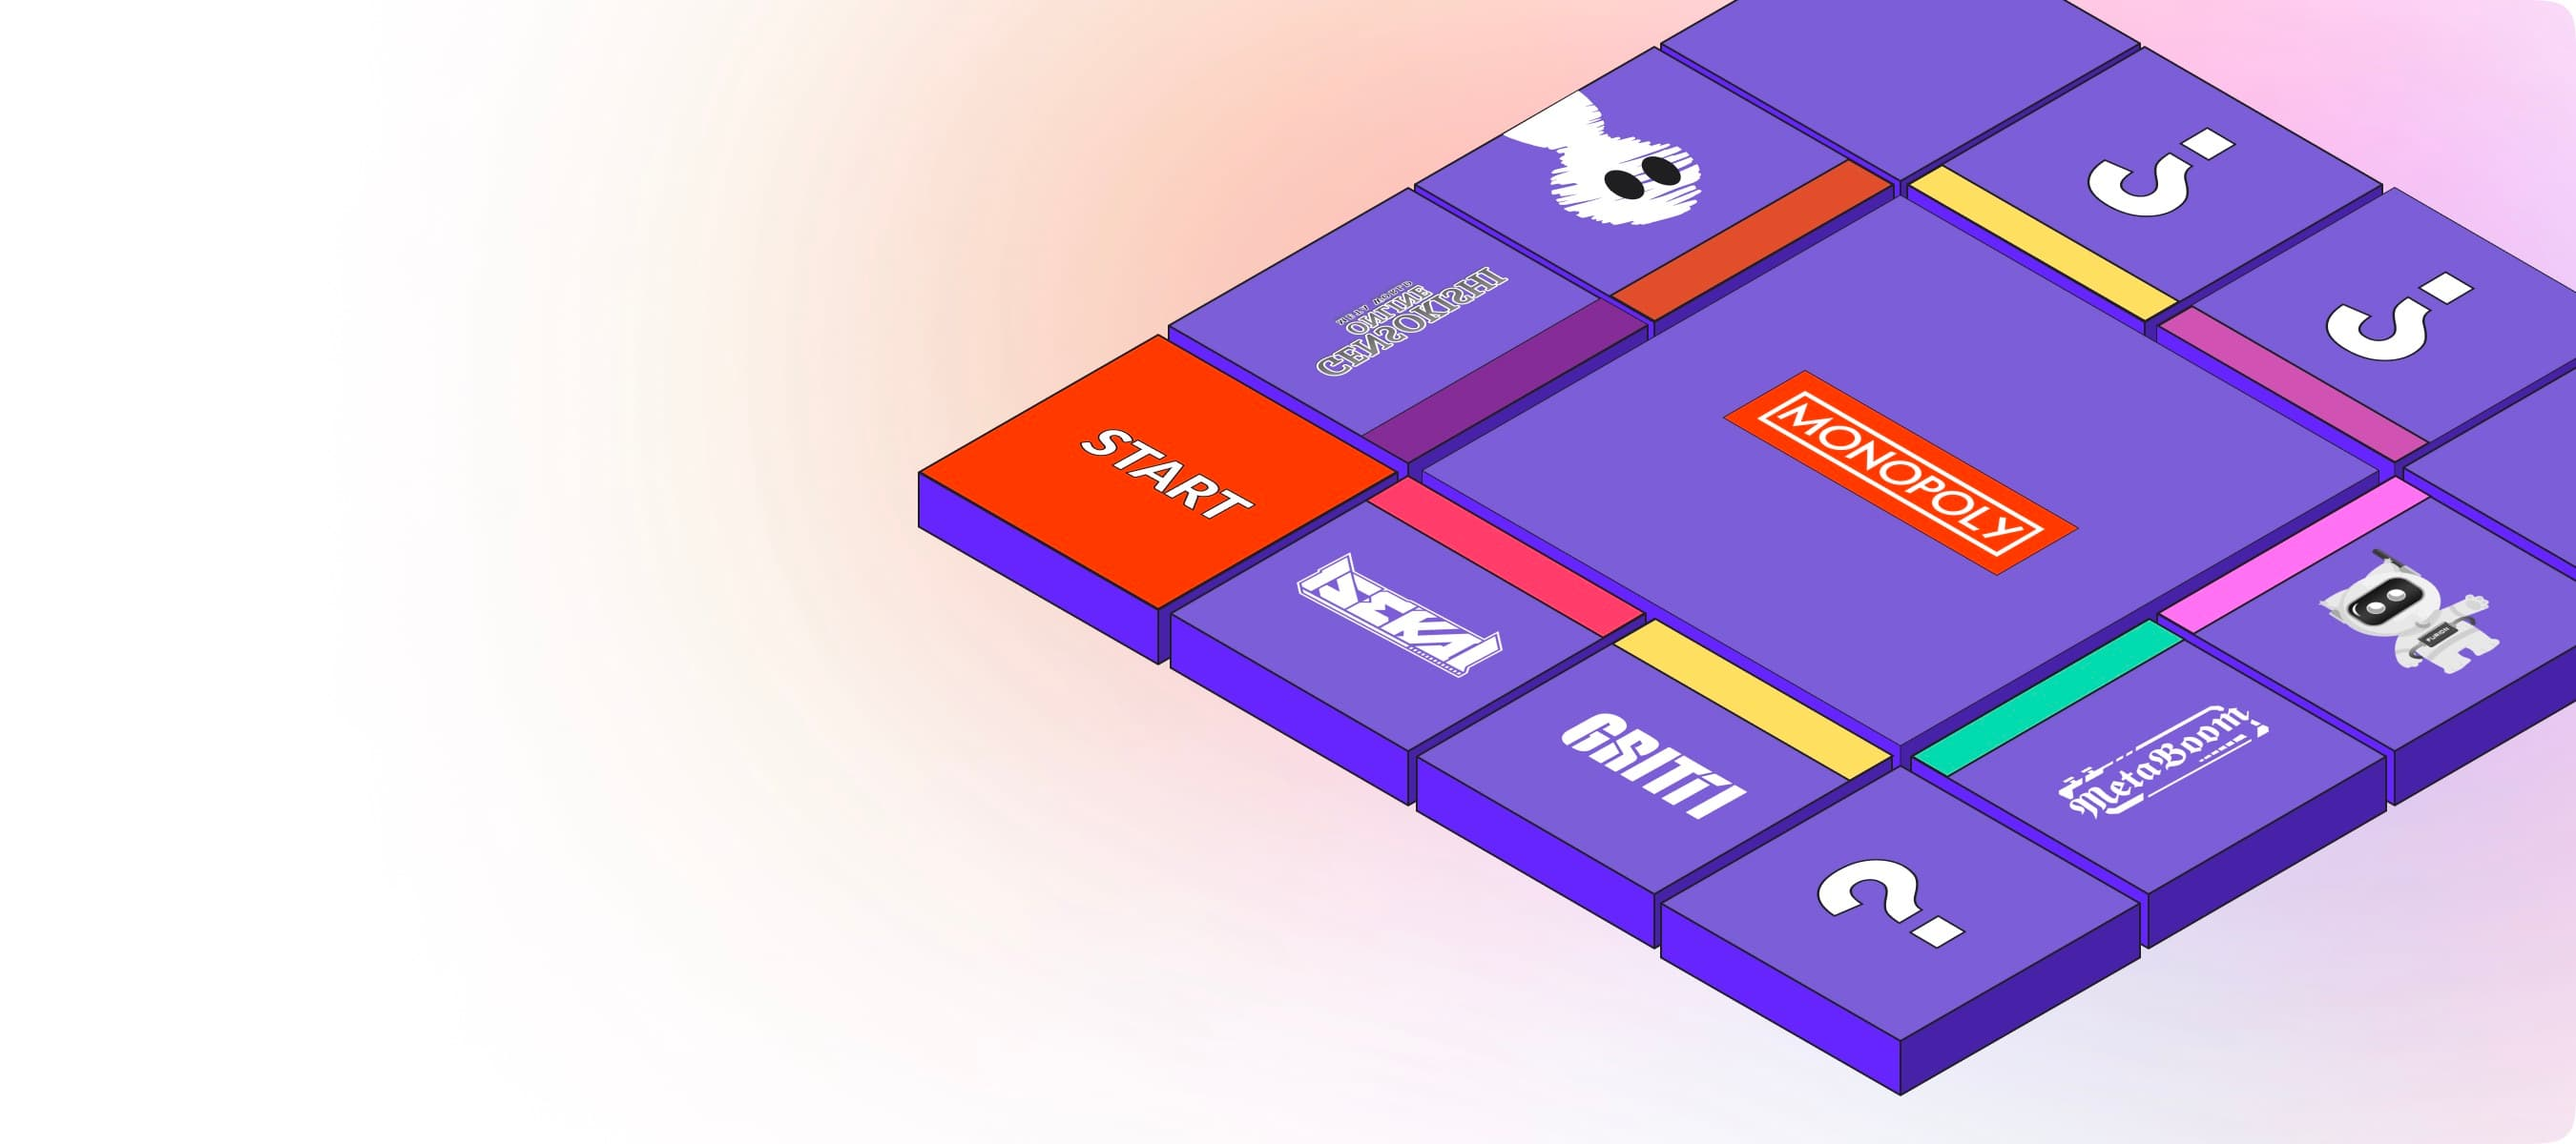
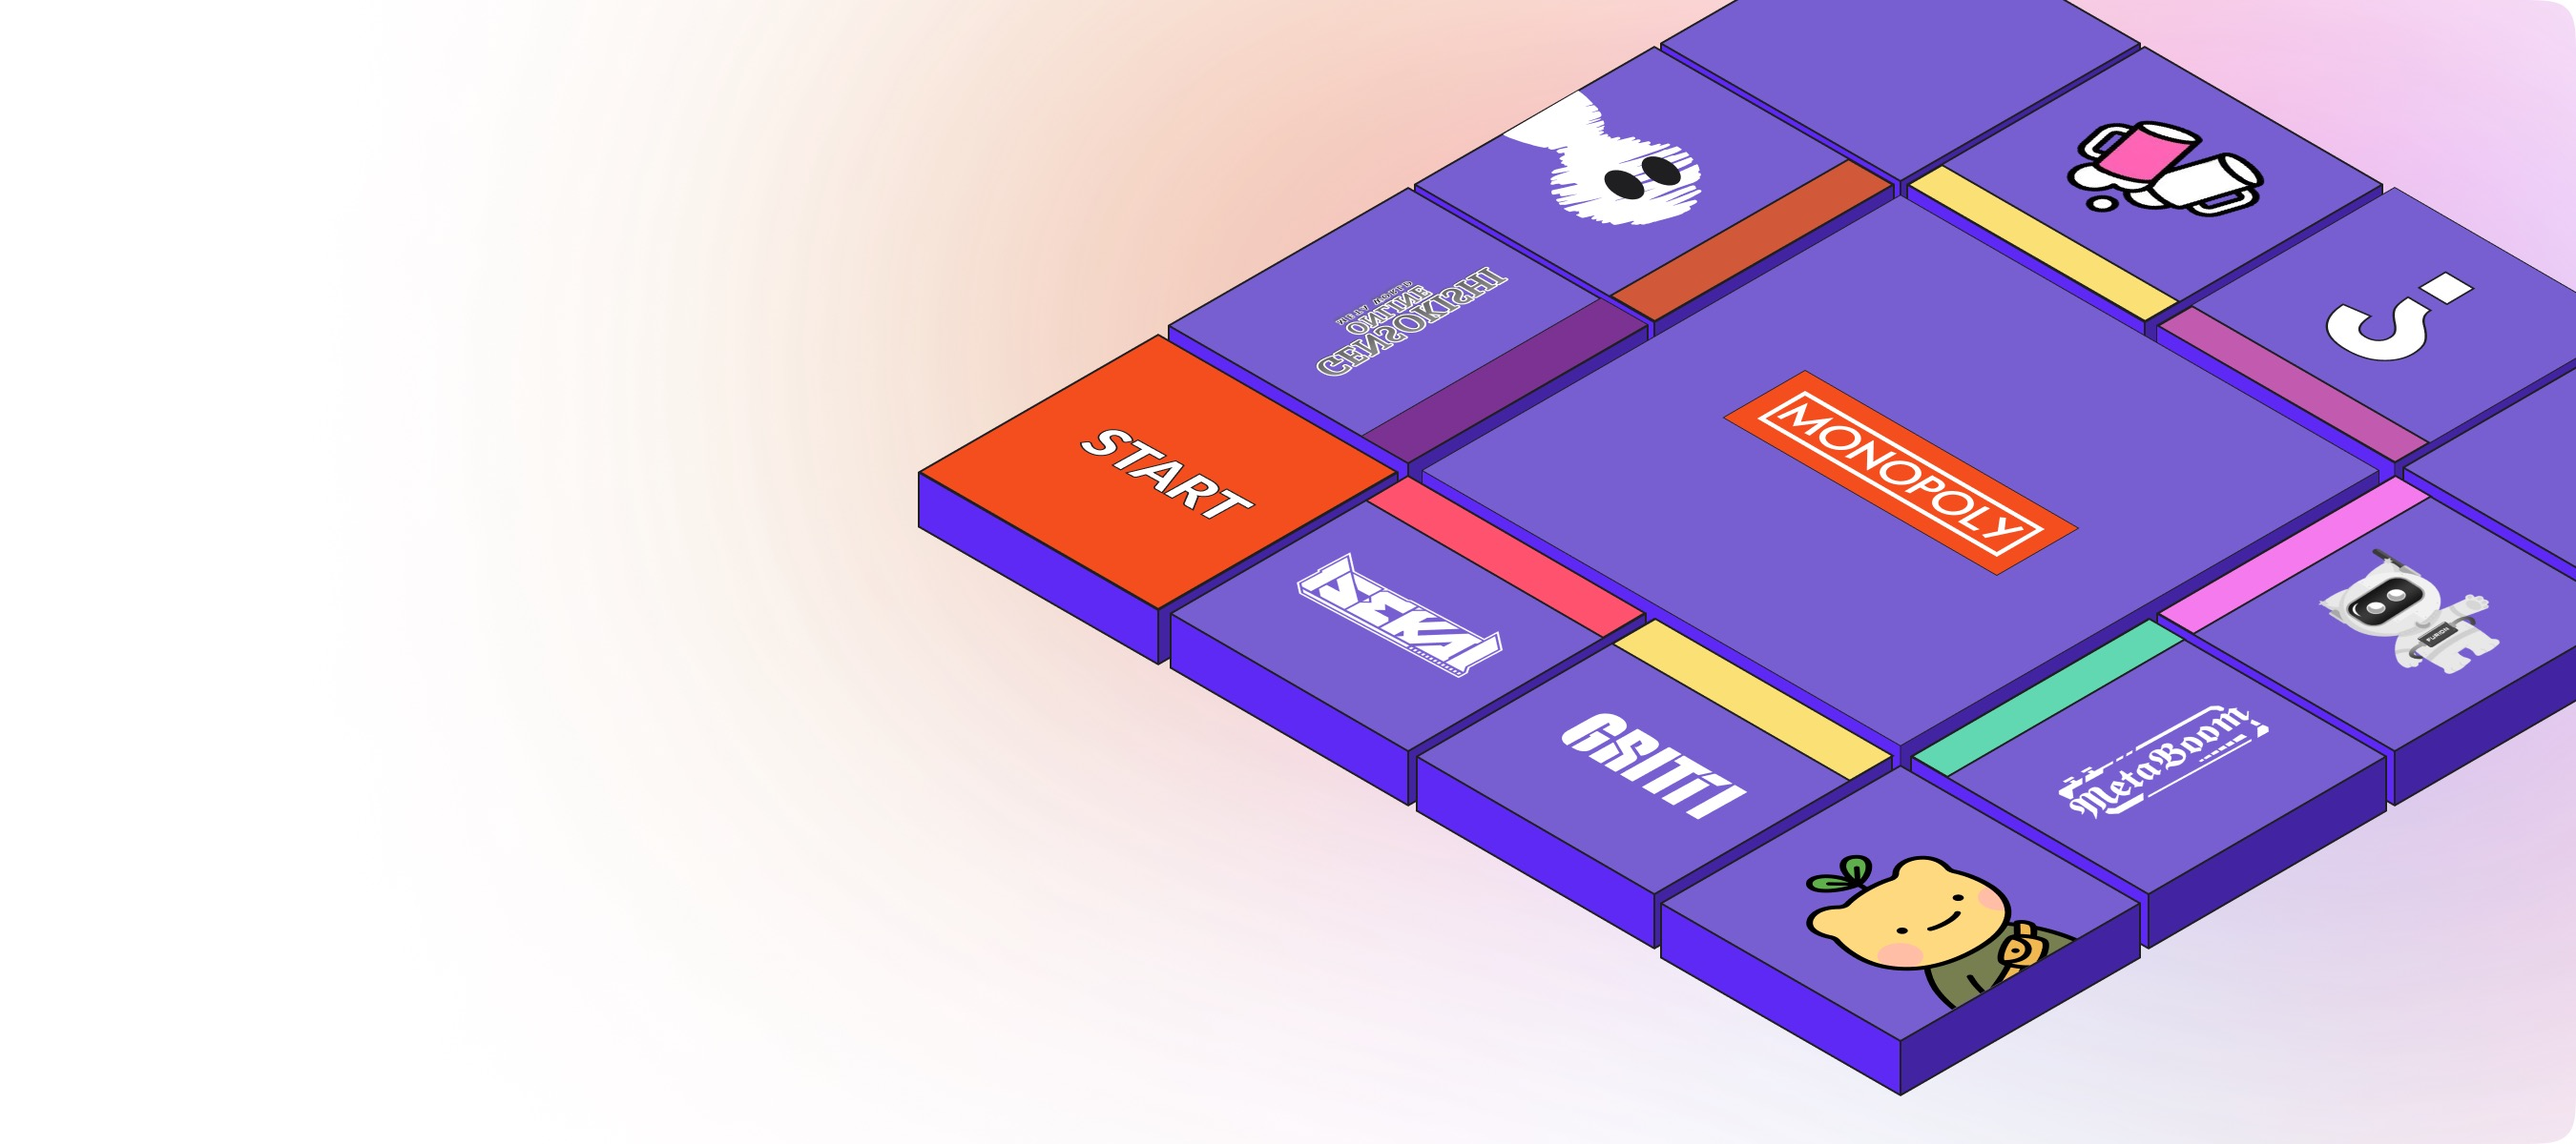
feat: update TestnetV3

diff --git a/src/pages/Testnet/V3Rewards.tsx b/src/pages/Testnet/V3Rewards.tsx
@@ -7,48 +7,69 @@ import IsekaiMetaverse from 'assets/images/Isekai Metaverse.png'
 import Gritti from 'assets/images/Gritti.png'
 import NextType from 'assets/images/NextType.png'
 import StarryNift from 'assets/images/StarryNift.png'
+import genso from 'assets/images/genso.png'
 
 export default function V3Rewards() {
   const theme = useTheme()
   const list = [
     {
+      name: 'Genso',
+      link: 'https://genso.game/en/',
+      img: genso
+    },
+    {
       name: 'MetaBoom',
-      link: '',
+      link: 'https://www.fansi.me/',
       img: MetaBoom
     },
     {
       name: 'WeirdoGhostGang',
-      link: '',
+      link: 'https://www.weirdoghost.com/',
       img: WeirdoGhostGang
     },
     {
       name: 'Furion',
-      link: '',
+      link: 'https://furion.io/',
       img: Furion
     },
     {
       name: 'Isekai Metaverse',
-      link: '',
+      link: 'https://www.isekaiprotocol.com/',
       img: IsekaiMetaverse
     },
     {
       name: 'Gritti',
-      link: '',
+      link: 'https://twitter.com/Grittiapp',
       img: Gritti
     },
     {
       name: 'NextType',
-      link: '',
+      link: 'https://twitter.com/NEXTYPE1',
       img: NextType
     },
     {
       name: 'StarryNift',
-      link: '',
+      link: 'https://starrynift.art/',
       img: StarryNift
     },
     {
       name: 'Aperion',
-      link: '',
+      link: undefined,
+      img: ''
+    },
+    {
+      name: 'CheersUp',
+      link: 'https://twitter.com/CheersUP_NFT',
+      img: ''
+    },
+    {
+      name: 'FPX Metaverse',
+      link: 'https://twitter.com/FPX_META',
+      img: ''
+    },
+    {
+      name: 'WonderPal',
+      link: 'https://twitter.com/WonderPals',
       img: ''
     }
   ]
@@ -66,7 +87,7 @@ export default function V3Rewards() {
         <Box
           key={i}
           sx={{
-            height: 254,
+            height: 214,
             background: `url(${bg})`,
             backgroundSize: '100% 100%',
             padding: '25px 32px',
@@ -75,7 +96,7 @@ export default function V3Rewards() {
             justifyContent: 'space-between'
           }}
         >
-          <Link underline="hover" display={'flex'} alignItems="center">
+          <Link target={'_blank'} underline="hover" href={item.link} display={'flex'} alignItems="center">
             <Typography mr={5} noWrap maxWidth={'84%'} color={theme.palette.info.main}>
               {item.name}
             </Typography>
@@ -93,13 +114,8 @@ export default function V3Rewards() {
               </defs>
             </svg>
           </Link>
-          <Box height={109} display="flex" justifyContent={'center'} alignItems="center">
+          <Box height={180} display="flex" justifyContent={'center'} alignItems="center">
             {item.img && <img style={{ width: '60%' }} src={item.img} />}
-          </Box>
-          <Box height={44}>
-            <Typography mt={10} textAlign={'center'}>
-              No draw
-            </Typography>
           </Box>
         </Box>
       ))}

diff --git a/src/pages/Testnet/TestnetV3.tsx b/src/pages/Testnet/TestnetV3.tsx
@@ -184,7 +184,7 @@ export default function TestnetV3() {
             <RowBetween flexWrap={'wrap'}>
               <Box display={'flex'} flexWrap={'wrap'}>
                 <Typography fontSize={16} fontWeight={600} color={theme.palette.info.main} mr={12}>
-                  Ladder SEPOLIA Testnet-Round 3 Participate in preparation
+                  Ladder SEPOLIA Monopoly Participate in preparation
                 </Typography>
               </Box>
             </RowBetween>
@@ -275,7 +275,7 @@ export default function TestnetV3() {
                     claimable={claimState === ClaimState.UNCLAIMED ? '10' : '0'}
                   /> */}
                 </Box>
-                <Box display={'flex'} flexWrap="wrap" flexDirection="row-reverse" mt={16} alignItems="center">
+                <Box display={'flex'} flexWrap="wrap" mt={16} alignItems="center">
                   <StyledButtonWrapper>
                     {account ? (
                       <Box position={'relative'}>
@@ -337,7 +337,7 @@ export default function TestnetV3() {
         </Collapse>
       </StyledCardWrapper>
 
-      <StyledCardWrapper>
+      <StyledCardWrapper id="reward">
         <Collapse
           defaultOpen
           title={
@@ -784,14 +784,15 @@ function Banner() {
             sx={{
               background: theme => theme.palette.primary.main,
               color: isDarkMode ? '#000' : '#fff',
-              width: '50%',
               mr: 10
             }}
             onClick={() => scrollToElement('qa')}
           >
             View rules
           </Button>
-          {/* <Button variant="outlined">View Rewards</Button> */}
+          <Button onClick={() => scrollToElement('reward')} variant="outlined">
+            View Rewards
+          </Button>
         </RowBetween>
       </Box>
     </Box>

diff --git a/src/pages/Testnet/index.tsx b/src/pages/Testnet/index.tsx
@@ -250,7 +250,7 @@ export default function Testnet() {
                 onClick={() => setRoundIndex(item)}
                 variant={roundIndex === item ? 'contained' : 'outlined'}
               >
-                ROUND {item + 1}
+                {item === 2 ? 'Monopoly' : `ROUND ${item + 1}`}
               </Button>
             ))}
           </Stack>
